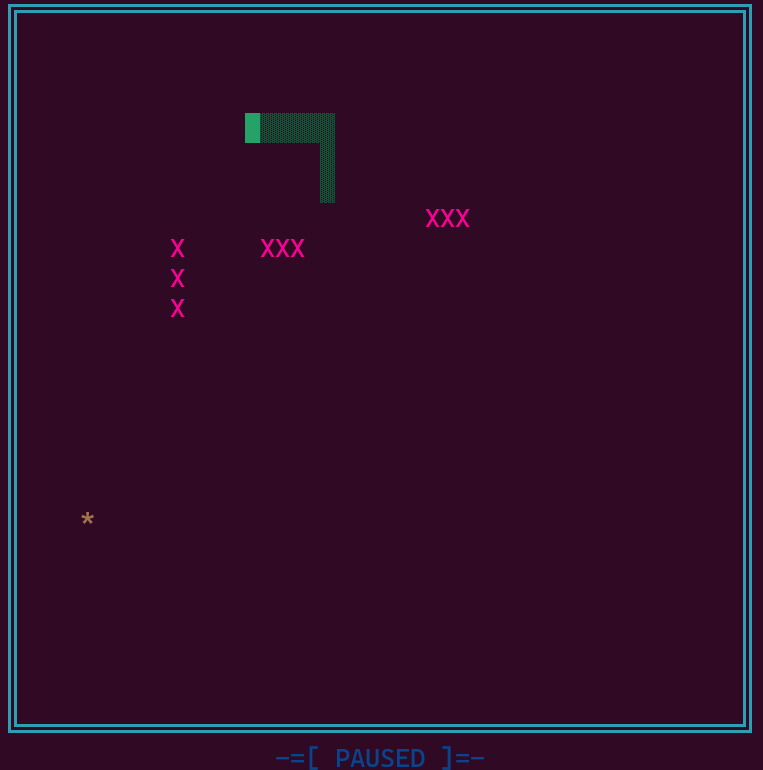
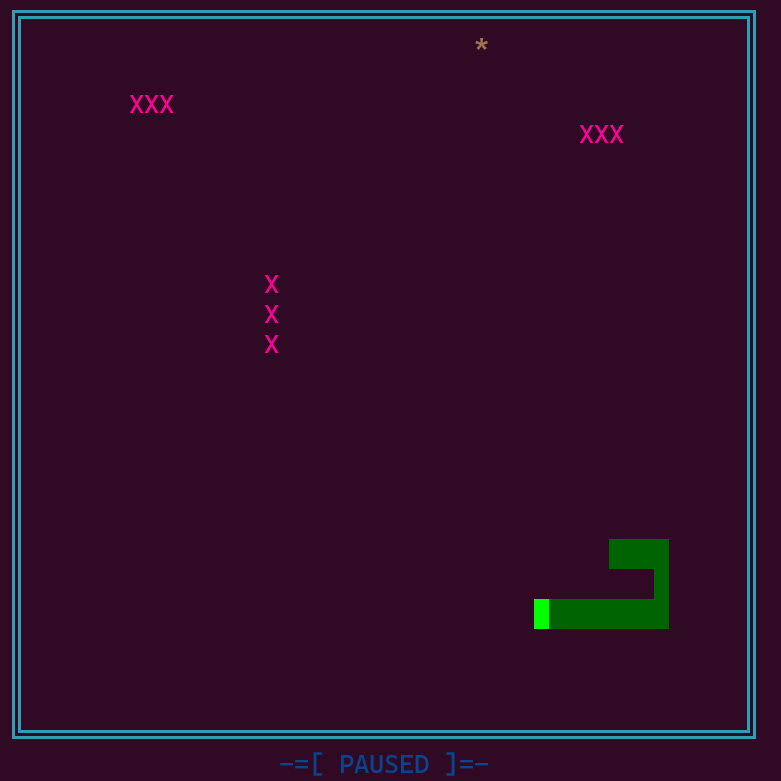
Snake color update

diff --git a/draw_board.c b/draw_board.c
@@ -27,10 +27,10 @@ void	draw_board(t_segment *snake, int length,int food_x, int food_y, t_segment *
 				if (eat)
 					printf("\033[31m+\033[0m");// yemek yediyse + olsun
 				else
-					printf("\033[0;32m\xe2\x96\x88\033[0m");
+					printf("\033[38;2;0;255;0m\xe2\x96\x88\033[0m");
 			}
 			else if (is_snake)
-				printf("\033[2;32m\xe2\x96\x93\033[0m");
+				printf("\033[38;2;0;100;0m\xe2\x96\x88\033[0m");
 			else if (is_obstecles)
 				printf("\033[38;2;255;0;150mX\033[0m");// engeller kırmızı 
 			else if ((y == food_y && x == food_x))
